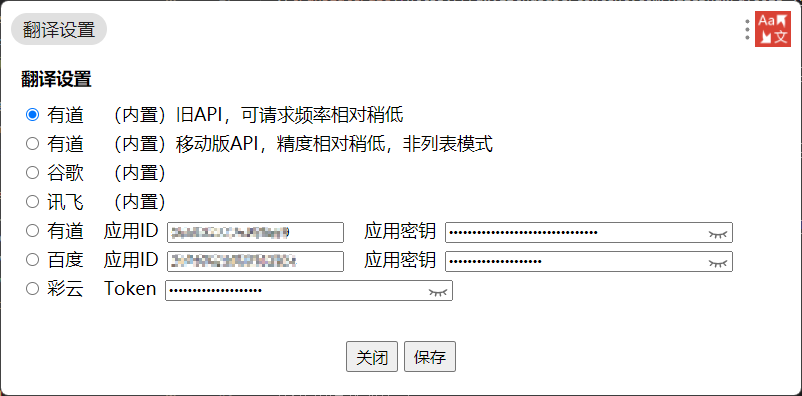
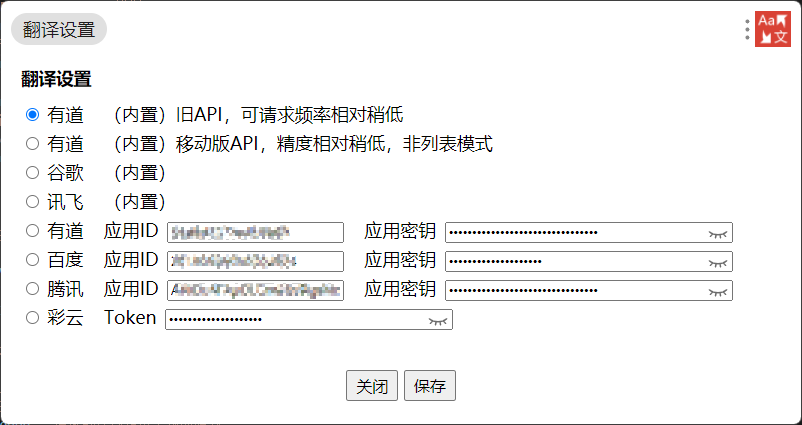
Add tencent API

diff --git a/assets/js/tencent.js b/assets/js/tencent.js
@@ -1,0 +1,177 @@
+const errorCodeMsgTencent = {
+  ActionOffline: "接口已下线。",
+  "AuthFailure.InvalidAuthorization": "请求头部的 Authorization 不符合腾讯云标准。",
+  "AuthFailure.InvalidSecretId": "密钥非法（不是云 API 密钥类型）。",
+  "AuthFailure.MFAFailure": "MFA 错误。",
+  "AuthFailure.SecretIdNotFound":
+    "密钥不存在。请在控制台检查密钥是否已被删除或者禁用，如状态正常，请检查密钥是否填写正确，注意前后不得有空格。",
+  "AuthFailure.SignatureExpire":
+    "签名过期。Timestamp 和服务器时间相差不得超过五分钟，请检查本地时间是否和标准时间同步。",
+  "AuthFailure.SignatureFailure":
+    "签名错误。签名计算错误，请对照调用方式中的签名方法文档检查签名计算过程。",
+  "AuthFailure.TokenFailure": "token 错误。",
+  "AuthFailure.UnauthorizedOperation": "请求未授权。请参考 CAM 文档对鉴权的说明。",
+  DryRunOperation: "DryRun 操作，代表请求将会是成功的，只是多传了 DryRun 参数。",
+  FailedOperation: "操作失败。",
+  InternalError: "内部错误。",
+  InvalidAction: "接口不存在。",
+  InvalidParameter: "参数错误（包括参数格式、类型等错误）。",
+  InvalidParameterValue: "参数取值错误。",
+  InvalidRequest: "请求 body 的 multipart 格式错误。",
+  IpInBlacklist: "IP地址在黑名单中。",
+  IpNotInWhitelist: "IP地址不在白名单中。",
+  LimitExceeded: "超过配额限制。",
+  MissingParameter: "缺少参数。",
+  NoSuchProduct: "产品不存在",
+  NoSuchVersion: "接口版本不存在。",
+  RequestLimitExceeded: "请求的次数超过了频率限制。",
+  "RequestLimitExceeded.IPLimitExceeded": "IP限频。",
+  "RequestLimitExceeded.UinLimitExceeded": "主账号限频。",
+  RequestSizeLimitExceeded: "请求包超过限制大小。",
+  ResourceInUse: "资源被占用。",
+  ResourceInsufficient: "资源不足。",
+  ResourceNotFound: "资源不存在。",
+  ResourceUnavailable: "资源不可用。",
+  ResponseSizeLimitExceeded: "返回包超过限制大小。",
+  ServiceUnavailable: "当前服务暂时不可用。",
+  UnauthorizedOperation: "未授权操作。",
+  UnknownParameter: "未知参数错误，用户多传未定义的参数会导致错误。",
+  UnsupportedOperation: "操作不支持。",
+  UnsupportedProtocol: "http(s) 请求协议错误，只支持 GET 和 POST 请求。",
+  UnsupportedRegion: "接口不支持所传地域。",
+  "FailedOperation.NoFreeAmount":
+    "本月免费额度已用完，如需继续使用您可以在机器翻译控制台升级为付费使用。",
+  "FailedOperation.ServiceIsolate": "账号因为欠费停止服务，请在腾讯云账户充值。",
+  "FailedOperation.UserNotRegistered": "服务未开通，请在腾讯云官网机器翻译控制台开通服务。",
+  "InternalError.BackendTimeout": "后台服务超时，请稍后重试。",
+  "InternalError.ErrorUnknown": "未知错误。",
+  "InternalError.RequestFailed": "请求失败。",
+  "InvalidParameter.DuplicatedSessionIdAndSeq": "重复的SessionUuid和Seq组合。",
+  "InvalidParameter.SeqIntervalTooLarge": "Seq之间的间隙请不要大于2000。",
+  "UnauthorizedOperation.ActionNotFound": "请填写正确的Action字段名称。",
+  "UnsupportedOperation.AudioDurationExceed": "音频分片长度超过限制，请保证分片长度小于8s。",
+  "UnsupportedOperation.TextTooLong": "单次请求text超过长度限制，请保证单次请求⻓度低于2000。",
+  "UnsupportedOperation.UnSupportedTargetLanguage": "不支持的目标语言，请参照语言列表。",
+  "UnsupportedOperation.UnsupportedLanguage": "不支持的语言，请参照语言列表。",
+  "UnsupportedOperation.UnsupportedSourceLanguage": "不支持的源语言，请参照语言列表。",
+};
+async function lookUpTencent(word) {
+  let data = [];
+
+  const endpoint = options.tencent.api;
+  const appId = utools.dbStorage.getItem("tencentAppId");
+  const appSecret = utools.dbStorage.getItem("tencentAppSecret");
+  if (!appId || !appSecret) {
+    data.push({
+      title: errTitle,
+      description: errMsgEmptyConf,
+    });
+    return data;
+  }
+
+  const service = "tmt";
+  const region = "ap-chengdu";
+  const action = "TextTranslate";
+  const version = "2018-03-21";
+
+  let param = {
+    SourceText: word,
+    Source: "auto",
+    Target: isChinese(word) ? "en" : "zh",
+    ProjectId: 0,
+  };
+  let payload = JSON.stringify(param);
+
+  //时间处理, 获取世界时间日期
+  const timestamp = parseInt(new Date().getTime() / 1000);
+  const date = getDate(timestamp);
+
+  // ************* 步骤 1：拼接规范请求串 *************
+
+  const httpRequestMethod = "POST";
+  const canonicalUri = "/";
+  const canonicalQueryString = "";
+  const canonicalHeaders =
+    "content-type:application/json; charset=utf-8\n" + "host:" + endpoint + "\n";
+  const signedHeaders = "content-type;host";
+  const hashedRequestPayload = CryptoJS.SHA256(payload).toString(CryptoJS.enc.Hex);
+
+  const canonicalRequest =
+    httpRequestMethod +
+    "\n" +
+    canonicalUri +
+    "\n" +
+    canonicalQueryString +
+    "\n" +
+    canonicalHeaders +
+    "\n" +
+    signedHeaders +
+    "\n" +
+    hashedRequestPayload;
+
+  // ************* 步骤 2：拼接待签名字符串 *************
+  const algorithm = "TC3-HMAC-SHA256";
+  const hashedCanonicalRequest = CryptoJS.SHA256(canonicalRequest).toString(CryptoJS.enc.Hex);
+  const credentialScope = date + "/" + service + "/" + "tc3_request";
+  const stringToSign =
+    algorithm + "\n" + timestamp + "\n" + credentialScope + "\n" + hashedCanonicalRequest;
+
+  // ************* 步骤 3：计算签名 *************
+
+  const kDate = CryptoJS.HmacSHA256(date, "TC3" + appSecret);
+  const kService = CryptoJS.HmacSHA256(service, kDate);
+  const kSigning = CryptoJS.HmacSHA256("tc3_request", kService);
+  const signature = CryptoJS.HmacSHA256(stringToSign, kSigning).toString(CryptoJS.enc.Hex);
+
+  // ************* 步骤 4：拼接 Authorization *************
+  const authorization =
+    algorithm +
+    " " +
+    "Credential=" +
+    appId +
+    "/" +
+    credentialScope +
+    ", " +
+    "SignedHeaders=" +
+    signedHeaders +
+    ", " +
+    "Signature=" +
+    signature;
+
+  let headers = {
+    Authorization: authorization,
+    "Content-Type": "application/json; charset=UTF-8",
+    "X-TC-Action": action,
+    "X-TC-Timestamp": timestamp.toString(),
+    "X-TC-Version": version,
+    "X-TC-Region": region,
+  };
+
+  let response = await post("https://" + endpoint, payload, headers);
+  const errorCode = response.Response?.Error?.Code;
+  if (!errorCode) {
+    const tran = response.Response.TargetText;
+    const phoneticEn = getPhoneticEn(word);
+    const phoneticUs = getPhoneticUs(word);
+    let dataTitle = `<span class="translation">${tran}</span><span>英</span>${phoneticEn}<span>美</span>${phoneticUs}`;
+    data.push({
+      title: dataTitle,
+      description: "基本释义",
+    });
+  } else {
+    let errMsg = errorCodeMsgTencent[errorCode];
+    data.push({
+      title: errTitle,
+      description: errMsg,
+    });
+  }
+  return data;
+}
+
+function getDate(timestamp) {
+  const date = new Date(timestamp * 1000);
+  const year = date.getUTCFullYear();
+  const month = ("0" + (date.getUTCMonth() + 1)).slice(-2);
+  const day = ("0" + date.getUTCDate()).slice(-2);
+  return `${year}-${month}-${day}`;
+}

diff --git a/assets/js/setting.js b/assets/js/setting.js
@@ -27,6 +27,10 @@ const options = {
     name: "百度",
     api: "https://fanyi-api.baidu.com/api/trans/vip/translate",
   },
+  tencent: {
+    name: "腾讯",
+    api: "tmt.tencentcloudapi.com",
+  },
   caiYun: {
     name: "彩云小译",
     api: "http://api.interpreter.caiyunai.com/v1/translator",
@@ -34,7 +38,7 @@ const options = {
 };
 
 // 设置窗口的高度。
-const settingHeight = 135 + 29 * 7;
+const settingHeight = 135 + 29 * 8;
 
 const errMsgEmptyApp = "应用ID或密钥不能为空！";
 
@@ -79,6 +83,16 @@ function loadConfiguration() {
     document.getElementById("baiDuAppSecret").value = baiDuAppSecret;
   }
 
+  let tencentAppId = utools.dbStorage.getItem("tencentAppId");
+  if (tencentAppId) {
+    document.getElementById("tencentAppId").value = tencentAppId;
+  }
+
+  let tencentAppSecret = utools.dbStorage.getItem("tencentAppSecret");
+  if (tencentAppSecret) {
+    document.getElementById("tencentAppSecret").value = tencentAppSecret;
+  }
+
   let caiYunToken = utools.dbStorage.getItem("caiYunToken");
   if (caiYunToken) {
     document.getElementById("caiYunToken").value = caiYunToken;
@@ -97,6 +111,8 @@ function saveConfiguration() {
   const youDaoAppSecret = document.getElementById("youDaoAppSecret").value;
   const baiDuAppId = document.getElementById("baiDuAppId").value;
   const baiDuAppSecret = document.getElementById("baiDuAppSecret").value;
+  const tencentAppId = document.getElementById("tencentAppId").value;
+  const tencentAppSecret = document.getElementById("tencentAppSecret").value;
   const caiYunToken = document.getElementById("caiYunToken").value;
   let saveFailed = false;
   switch (option) {
@@ -115,6 +131,13 @@ function saveConfiguration() {
       }
       break;
     case Object.keys(options)[7]:
+      if (isBlank(tencentAppId) || isBlank(tencentAppSecret)) {
+        $("#msg").text(errMsgEmptyApp);
+        document.getElementById("tencentAppId").focus();
+        saveFailed = true;
+      }
+      break;
+    case Object.keys(options)[8]:
       if (isBlank(caiYunToken)) {
         $("#msg").text("Token不能为空！");
         document.getElementById("caiYunToken").focus();
@@ -132,6 +155,8 @@ function saveConfiguration() {
   utools.dbStorage.setItem("youDaoAppSecret", youDaoAppSecret);
   utools.dbStorage.setItem("baiDuAppId", baiDuAppId);
   utools.dbStorage.setItem("baiDuAppSecret", baiDuAppSecret);
+  utools.dbStorage.setItem("tencentAppId", tencentAppId);
+  utools.dbStorage.setItem("tencentAppSecret", tencentAppSecret);
   utools.dbStorage.setItem("caiYunToken", caiYunToken);
   hideSetting();
   utools.showNotification(`切换为${options[option]["name"]}成功！`);

diff --git a/index.html b/index.html
@@ -9,6 +9,7 @@
     <link rel="stylesheet" type="text/css" href="assets/css/page.css" />
     <script src="assets/js/jquery-3.3.1.min.js"></script>
     <script src="assets/js/mousetrap.min.js"></script>
+    <script src="assets/js/crypto-js.js"></script>
   </head>
   <body>
     <div id="page"></div>
@@ -91,6 +92,17 @@
         </div>
         <div class="service">
           <label>
+            <input name="service" type="radio" value="tencent" />
+            腾讯
+          </label>
+          <span>应用ID</span>
+          <input id="tencentAppId" name="appId" type="input" value="" />
+          <span>应用密钥</span>
+          <input id="tencentAppSecret" class="secret" name="appSecret" type="password" value="" />
+          <img class="eye closed" />
+        </div>
+        <div class="service">
+          <label>
             <input name="service" type="radio" value="caiYun" />
             彩云
           </label>
@@ -106,11 +118,11 @@
       </div>
     </div>
     <script src="assets/js/utils.js"></script>
-    <script src="assets/js/crypto-js.js"></script>
     <script src="assets/js/youDaoOld.js"></script>
     <script src="assets/js/youDaoWeb.js"></script>
     <script src="assets/js/youDaoWap.js"></script>
     <script src="assets/js/google.js"></script>
+    <script src="assets/js/tencent.js"></script>
     <script src="assets/js/youDao.js"></script>
     <script src="assets/js/baiDu.js"></script>
     <script src="assets/js/caiYun.js"></script>

diff --git a/README.md b/README.md
@@ -93,6 +93,14 @@ uTools 插件 - 翻译
 
   需要到[百度翻译开放平台](http://api.fanyi.baidu.com)申请获取应用ID和应用密钥。
 
+- 腾讯翻译
+
+  <https://tmt.tencentcloudapi.com>
+
+  翻译内容较少，仅有基本翻译。
+
+  需要到[腾讯云机器翻译TMT](https://cloud.tencent.com/product/tmt)申请获取应用ID和应用密钥。
+
 - 彩云小译
 
   <http://api.interpreter.caiyunai.com/v1/translator>
